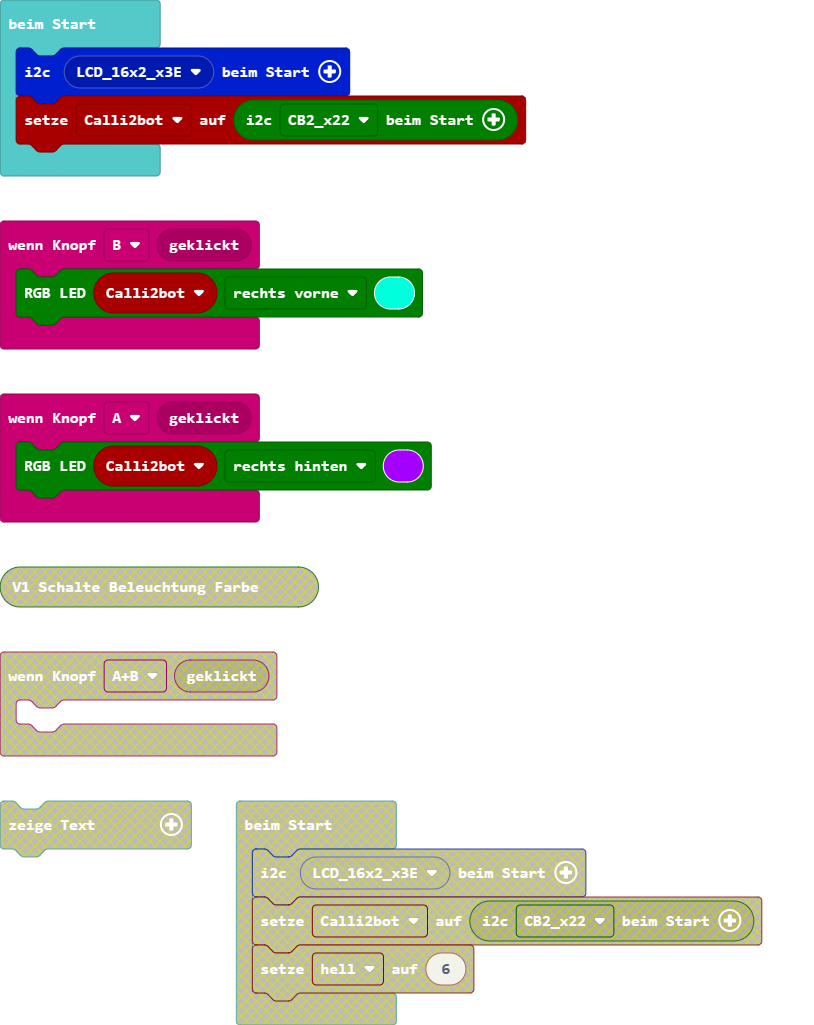
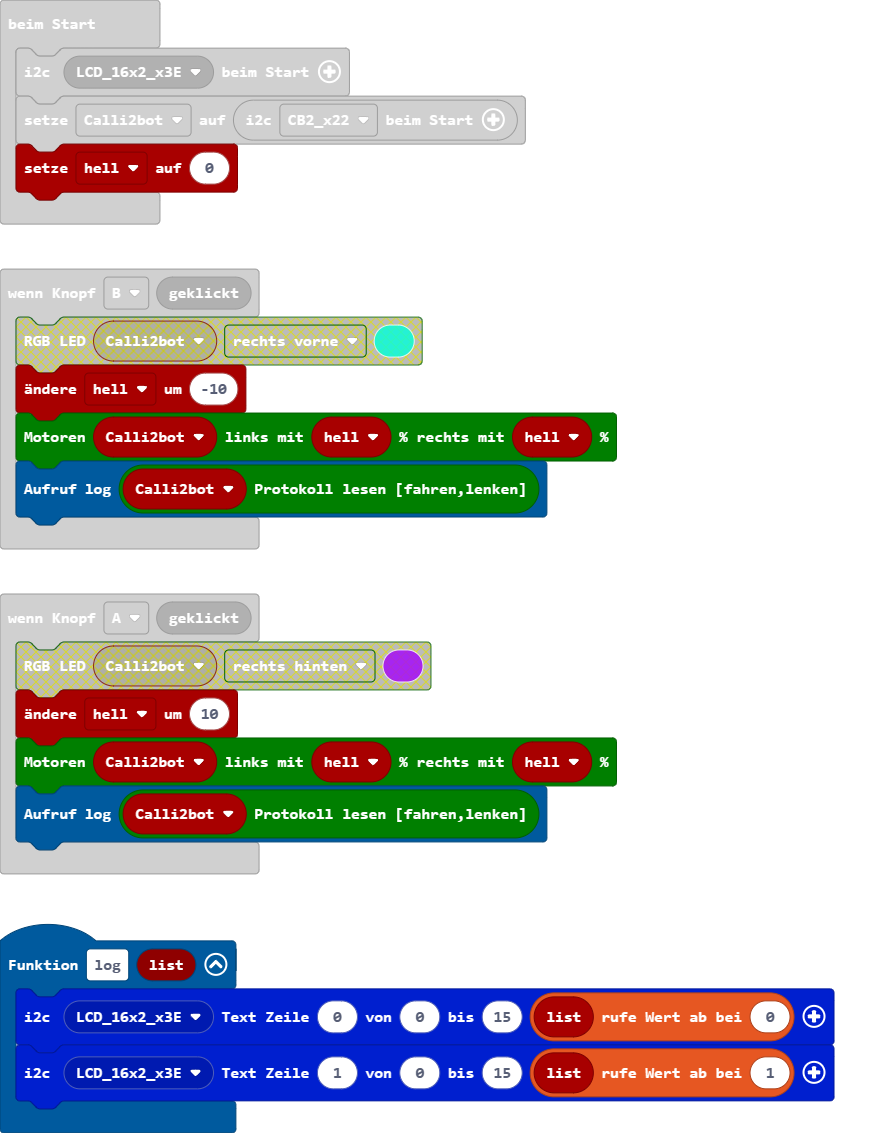
Aktualisiere main.blocks, main.ts, callibot.ts, calli2bot.ts, Knotech.ts

diff --git a/calli2bot.ts b/calli2bot.ts
@@ -19,28 +19,54 @@ namespace calli2bot {
         }
 
 
-        // ========== group="Motor (0 .. 255)"
+        // ========== group="Motor (-100% .. 0 .. +100%)"
 
-        //% group="Motor (0 .. 255)"
-        //% block="Motor %Calli2bot %eMotor %pPWM (0-255) %pRichtung" weight=9
-        //% pwm.min=0 pwm.max=255 pwm.defl=128
-        setMotor(pMotor: eMotor, pwm: number, pRichtung: eDirection) {
+        //% group="Motor (-100% .. 0 .. +100%)"
+        //% block="Motoren %Calli2bot links mit %pwm1 \\% rechts mit %pwm2 \\%" weight=8
+        //% pwm1.shadow="speedPicker" pwm1.defl=0
+        //% pwm2.shadow="speedPicker" pwm2.defl=0
+        setMotoren2(pwm1: number, pwm2: number) {
+            this.log = [pwm1 + " " + pwm2, ""]
+            let pRichtung1 = (pwm1 < 0 ? eDirection.r : eDirection.v)
+            let pRichtung2 = (pwm2 < 0 ? eDirection.r : eDirection.v)
+            pwm1 = Math.trunc(Math.abs(pwm1) * 255 / 100)
+            pwm2 = Math.trunc(Math.abs(pwm2) * 255 / 100)
+
+            this.log[1] = pwm1 + " " + pwm2
+
+            this.setMotoren(pwm1, pRichtung1, pwm2, pRichtung2)
+
+            //if (this.between(pwm1, 0, 255) && this.between(pwm2, 0, 255))
+            //    this.i2cWriteBuffer(Buffer.fromArray([eRegister.SET_MOTOR, eMotor.beide, pRichtung1, pwm1, pRichtung2, pwm2]))
+            //else
+            //    this.i2cWriteBuffer(Buffer.fromArray([eRegister.SET_MOTOR, eMotor.beide, 0, 0, 0, 0]))
+        }
+
+        //% group="Motor (-100% .. 0 .. +100%)"
+        //% block="Motor %Calli2bot %pMotor mit %pwm \\%" weight=7
+        //% pwm.shadow="speedPicker" pwm.defl=0
+        setMotor(pMotor: eMotor, pwm: number) {
+            let pRichtung = (pwm < 0 ? eDirection.r : eDirection.v)
+            pwm = Math.trunc(Math.abs(pwm) * 255 / 100)
+
             if (this.between(pwm, 0, 255)) {
-                this.motorPower = true
-            } else { // falscher Parameter -> beide Stop
+                //this.motorPower = true
+            } else  // falscher Parameter -> beide Stop
                 pMotor = eMotor.beide; pwm = 0
-            }
+
             if (pMotor == eMotor.beide)
                 this.i2cWriteBuffer(Buffer.fromArray([eRegister.SET_MOTOR, pMotor, pRichtung, pwm, pRichtung, pwm]))
             else
                 this.i2cWriteBuffer(Buffer.fromArray([eRegister.SET_MOTOR, pMotor, pRichtung, pwm]))
         }
 
-        //% group="Motor (0 .. 255)"
-        //% block="Motoren %Calli2bot links %pPWM1 (0-255) %pRichtung1 rechts %pPWM2 %pRichtung2" weight=8
+
+
+        //% group="Motor (0 .. 255)" deprecated=true
+        //% block="Motoren %Calli2bot links %pPWM1 (0-255) %pRichtung1 rechts %pPWM2 %pRichtung2" weight=2
         //% pwm1.min=0 pwm1.max=255 pwm1.defl=128 pwm2.min=0 pwm2.max=255 pwm2.defl=128
         //% inlineInputMode=inline
-        setMotoren(pwm1: number, pRichtung1: eDirection, pwm2: number, pRichtung2: eDirection) {
+        private setMotoren(pwm1: number, pRichtung1: eDirection, pwm2: number, pRichtung2: eDirection) {
             if (this.between(pwm1, 0, 255) && this.between(pwm2, 0, 255))
                 this.i2cWriteBuffer(Buffer.fromArray([eRegister.SET_MOTOR, eMotor.beide, pRichtung1, pwm1, pRichtung2, pwm2]))
             else
@@ -57,29 +83,28 @@ namespace calli2bot {
         setLed(pLed: eLed, on: boolean, pwm?: number) {
             if (!on) pwm = 0
             else if (on && Number.isNaN(pwm)) pwm = 16
-            let buffer = Buffer.fromArray([eRegister.SET_LED, pLed, pwm])
-            this.i2cWriteBuffer(buffer)
+            this.i2cWriteBuffer(Buffer.fromArray([eRegister.SET_LED, pLed, pwm]))
         }
 
         //% group="LED"
         //% block="RGB LED %Calli2bot %led rot %red grün %green blau %blue" weight=4
-        //% red.min=0 red.max=15
-        //% green.min=0 green.max=15
-        //% blue.min=0 blue.max=15
+        //% red.min=0 red.max=16 red.defl=16
+        //% green.min=0 green.max=16 green.defl=16
+        //% blue.min=0 blue.max=16 blue.defl=16
         //% inlineInputMode=inline
-        setRgbLed(led: eRgbLed, red: number, green: number, blue: number) {
-            let buffer = Buffer.fromArray([eRegister.SET_LED, led, red, green, blue])
-            if (led != eRgbLed.All)
-                this.i2cWriteBuffer(buffer);
-            else // all leds, repeat 4 times
-                for (let index = 1; index < 5; index++) {
-                    buffer[1] = index;
-                    this.i2cWriteBuffer(buffer)
-                    basic.pause(10)
-                }
+        setRgbLed1(led: eRgbLed, red: number, green: number, blue: number) {
+            if (red >= 0 && green >= 0 && blue >= 0) {
+                let buffer = Buffer.fromArray([eRegister.SET_LED, led, red, green, blue])
+                if (led != eRgbLed.All)
+                    this.i2cWriteBuffer(buffer);
+                else // all leds, repeat 4 times
+                    for (let i = 1; i < 5; i++) {
+                        buffer[1] = i
+                        this.i2cWriteBuffer(buffer)
+                        basic.pause(10)
+                    }
+            }
         }
-
-
 
         //% group="LED"
         //% block="RGB LED %Calli2bot %led %color" weight=2
@@ -95,8 +120,8 @@ namespace calli2bot {
                 buffer[1] = led
                 this.i2cWriteBuffer(buffer)
             } else // all leds, repeat 4 times
-                for (let index = 1; index < 5; index++) {
-                    buffer[1] = index;
+                for (let i = 1; i < 5; i++) {
+                    buffer[1] = i
                     this.i2cWriteBuffer(buffer)
                     basic.pause(10)
                 }

diff --git a/Knotech.ts b/Knotech.ts
@@ -7,6 +7,12 @@ enum C2Motor {
     beide
 }
 
+enum C2eMotor {
+    links,
+    rechts,
+    beide
+}
+
 enum C2Stop {
     //% block="auslaufend"
     Frei,
@@ -22,6 +28,11 @@ enum C2Servo {
 }
 
 enum C2Sensor {
+    links,
+    rechts
+}
+
+enum C2eSensor {
     links,
     rechts
 }
@@ -384,6 +395,35 @@ namespace calliBot2 {
         nLog = buffer.toHex()
     }
 
+    //% blockId=c2eStopAll block="Alles abschalten"
+    //% advanced=true
+    export function stopAll() {
+        let buffer = pins.createBuffer(1)
+        buffer[0] = 0x01;
+        pins.i2cWriteBuffer(0x22, buffer);
+    }
+
+    //% blockId=c2eResetEncoder block="Lösche Encoder-Zähler |%encoder"
+    //% advanced=true
+    export function resetEncoder(encoder: C2eMotor) {
+        let bitMask = 0;
+        switch (encoder) {
+            case C2eMotor.links:
+                bitMask = 1;
+                break;
+            case C2eMotor.rechts:
+                bitMask = 2;
+                break;
+            case C2eMotor.beide:
+                bitMask = 3;
+                break;
+        }
+        let buffer = pins.createBuffer(2)
+        buffer[0] = 5;
+        buffer[1] = bitMask;
+        pins.i2cWriteBuffer(0x22, buffer);
+    }
+
     //% block="V2 Stoßstange |%sensor| |%status"
     //% color="#00C040" 
     export function readBumperSensor(sensor: C2Sensor, status: C2State): boolean {
@@ -459,6 +499,88 @@ namespace calliBot2 {
         }
         else {
             return (256 * buffer[1] + buffer[2]) / 10
+        }
+    }
+
+
+    //% blockID=c2eEncoder color="#00C040" block="Encoderwert |%encoder"
+    //% advanced = true
+    export function encoderValue(encoder: C2eSensor): number {
+        let result: number;
+        let index: number;
+
+        let wbuffer = pins.createBuffer(1);
+        wbuffer[0] = 0x91;
+        pins.i2cWriteBuffer(0x22, wbuffer);
+        let buffer = pins.i2cReadBuffer(0x22, 9);
+        if (encoder == C2eSensor.links) {
+            index = 1;
+        }
+        else {
+            index = 5;
+        }
+        result = buffer[index + 3];
+        result = result * 256 + buffer[index + 2];
+        result = result * 256 + buffer[index + 1];
+        result = result * 256 + buffer[index];
+        result = -(~result + 1);
+        return result;
+    }
+
+
+
+
+
+    //% blockID=c2eBattVoltage color="#00C040" block="Batteriespannung (mV)"
+    //% advanced = true
+    export function batteryVoltage(): number {
+        let wbuffer = pins.createBuffer(1);
+        wbuffer[0] = 0x83;
+        pins.i2cWriteBuffer(0x22, wbuffer);
+        let buffer = pins.i2cReadBuffer(0x22, 3);
+        return (buffer[2] * 256 + buffer[1]);
+    }
+
+
+    //% blockID=c2eLineRaw color="#00C040" block="Spursensor $sensor analog (mV)"
+    //% advanced = true
+    export function lineSensorRaw(sensor: C2eSensor): number {
+        let wBuffer = pins.createBuffer(1);
+        let sensorValue: number;
+
+        wBuffer[0] = 0x84;
+        pins.i2cWriteBuffer(0x22, wBuffer);
+        let buffer = pins.i2cReadBuffer(0x22, 5);
+        if (sensor == C2eSensor.links) {
+            sensorValue = buffer[2] * 256 + buffer[1];
+        }
+        else {
+            sensorValue = buffer[4] * 256 + buffer[3];
+        }
+        return sensorValue;
+    }
+
+    //% blockID=c2eSwOn color="#00C040" block="Taster An"
+    //% advanced = true
+    export function switchOn(): boolean {
+        let buffer = pins.i2cReadBuffer(0x21, 1);
+        if (buffer[0] & 0x10) {
+            return true;
+        }
+        else {
+            return false;
+        }
+    }
+
+    //% blockID=c2eSwOff color="#00C040" block="Taster Aus"
+    //% advanced = true
+    export function switchOff(): boolean {
+        let buffer = pins.i2cReadBuffer(0x21, 1);
+        if (buffer[0] & 0x20) {
+            return true;
+        }
+        else {
+            return false;
         }
     }
 

diff --git a/callibot.ts b/callibot.ts
@@ -1,6 +1,6 @@
 
 //% color=#007F00 icon="\uf17b" block="Calli²bot" weight=29
-//% groups='["beim Start","Motor (0 .. 255)","LED","INPUT"]'
+//% groups='["beim Start","Motor (-100% .. 0 .. +100%)","LED","INPUT"]'
 namespace calli2bot
 /* 231030 calliope-net.github.io/callibot
 
@@ -54,12 +54,12 @@ PWM rechts (0..255) von Motor 2
 
 
     export enum eMotor {
+        //% block="beide gleich"
+        beide = 0b11,
         //% block="links"
         m1 = 0b01,
         //% block="rechts"
-        m2 = 0b10,
-        //% block="beide gleich"
-        beide = 0b11
+        m2 = 0b10
     }
 
     export enum eDirection {
@@ -83,16 +83,16 @@ PWM rechts (0..255) von Motor 2
     }
 
     export enum eRgbLed {
+        //% block="alle (4)"
+        All = 0,
         //% block="links vorne"
         LV = 1,
-        //% block="rechts vorne"
-        RV = 4,
         //% block="links hinten"
         LH = 2,
         //% block="rechts hinten"
         RH = 3,
-        //% block="alle"
-        All = 0
+        //% block="rechts vorne"
+        RV = 4
     }
 
     export enum eINPUTS {
@@ -134,7 +134,7 @@ PWM rechts (0..255) von Motor 2
     //% group="Color"
     //% block="V1 Schalte Beleuchtung Farbe $color" advanced=true
     //% color.shadow="callibot_colorPicker"
-    export function setRgbLed1(color: number) {
+     function setRgbLed1(color: number) {
 
 
         let bu = Buffer.create(4)

diff --git a/main.ts b/main.ts
@@ -1,9 +1,19 @@
 input.onButtonEvent(Button.A, input.buttonEventClick(), function () {
-    Calli2bot.setRgbLed2(calli2bot.eRgbLed.RH, 0xa300ff)
+    hell += 10
+    Calli2bot.setMotoren2(hell, hell)
+    log(Calli2bot.getLog())
 })
+function log (list: any[]) {
+    lcd16x2rgb.writeText(lcd16x2rgb.lcd16x2_eADDR(lcd16x2rgb.eADDR_LCD.LCD_16x2_x3E), 0, 0, 15, list[0])
+    lcd16x2rgb.writeText(lcd16x2rgb.lcd16x2_eADDR(lcd16x2rgb.eADDR_LCD.LCD_16x2_x3E), 1, 0, 15, list[1])
+}
 input.onButtonEvent(Button.B, input.buttonEventClick(), function () {
-    Calli2bot.setRgbLed2(calli2bot.eRgbLed.RV, 0x00ffdc)
+    hell += -10
+    Calli2bot.setMotoren2(hell, hell)
+    log(Calli2bot.getLog())
 })
+let hell = 0
 let Calli2bot: calli2bot.Calli2bot = null
 lcd16x2rgb.initLCD(lcd16x2rgb.lcd16x2_eADDR(lcd16x2rgb.eADDR_LCD.LCD_16x2_x3E))
 Calli2bot = calli2bot.beimStart(calli2bot.eADDR.CB2_x22)
+hell = 0
